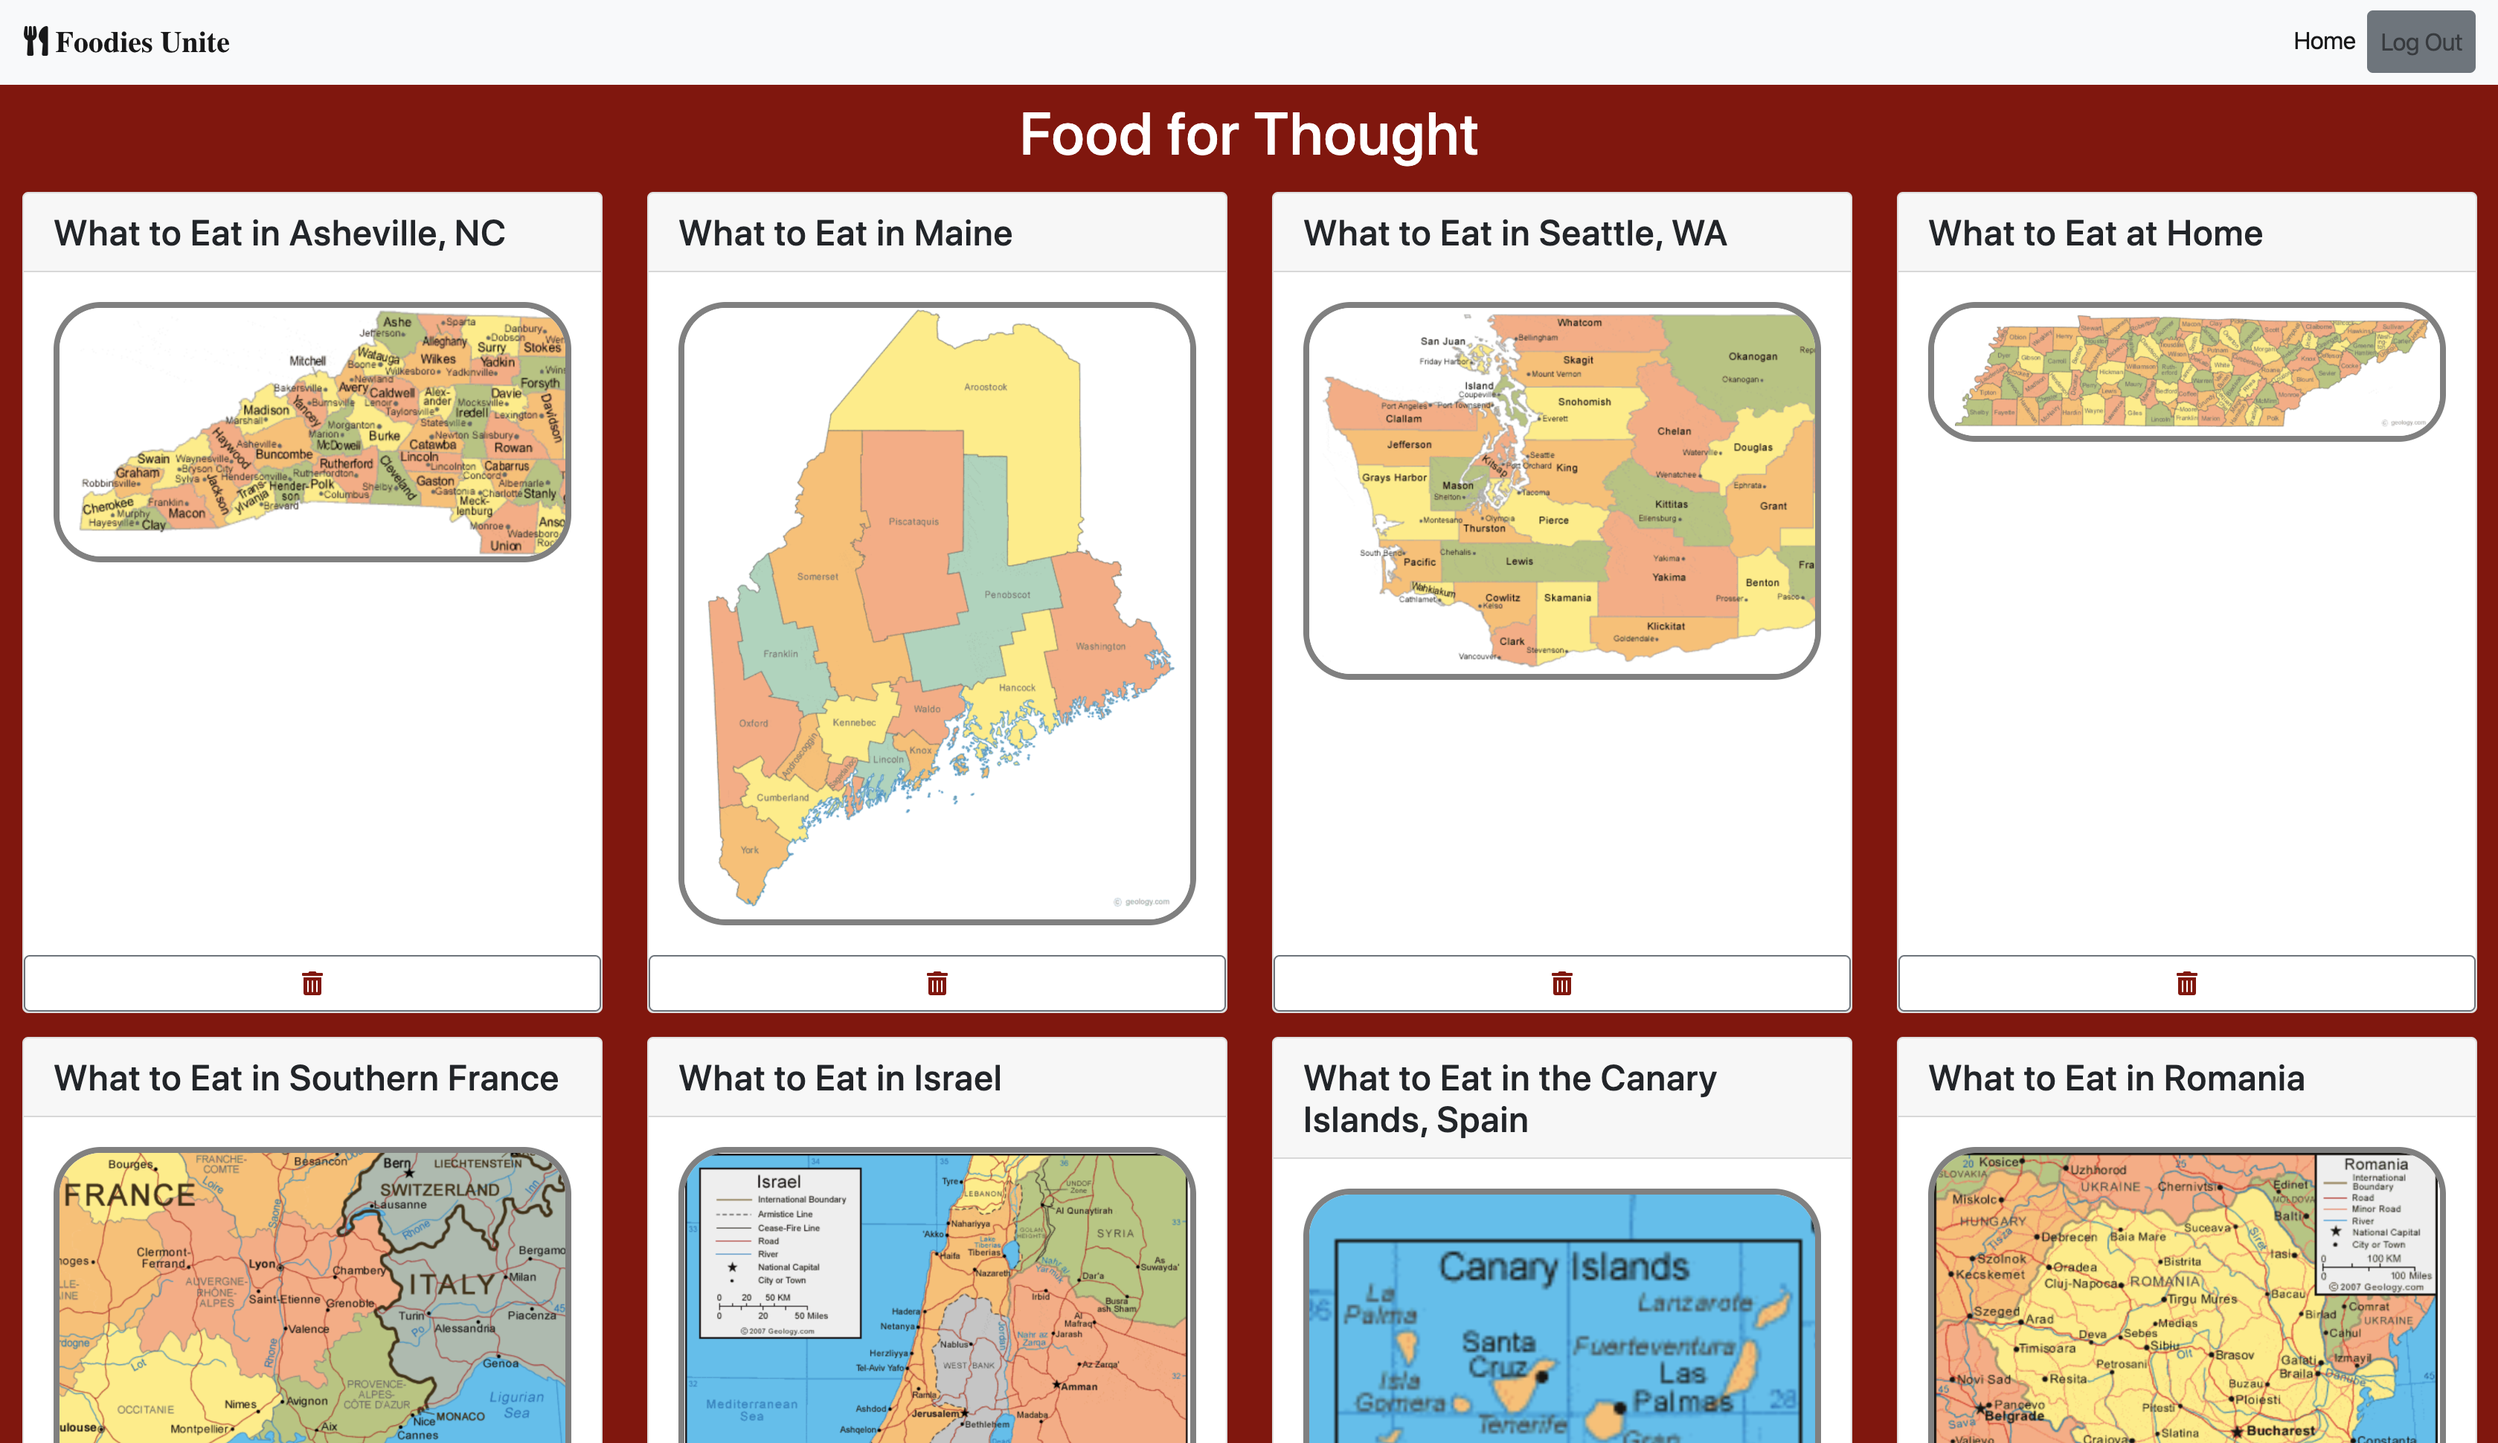
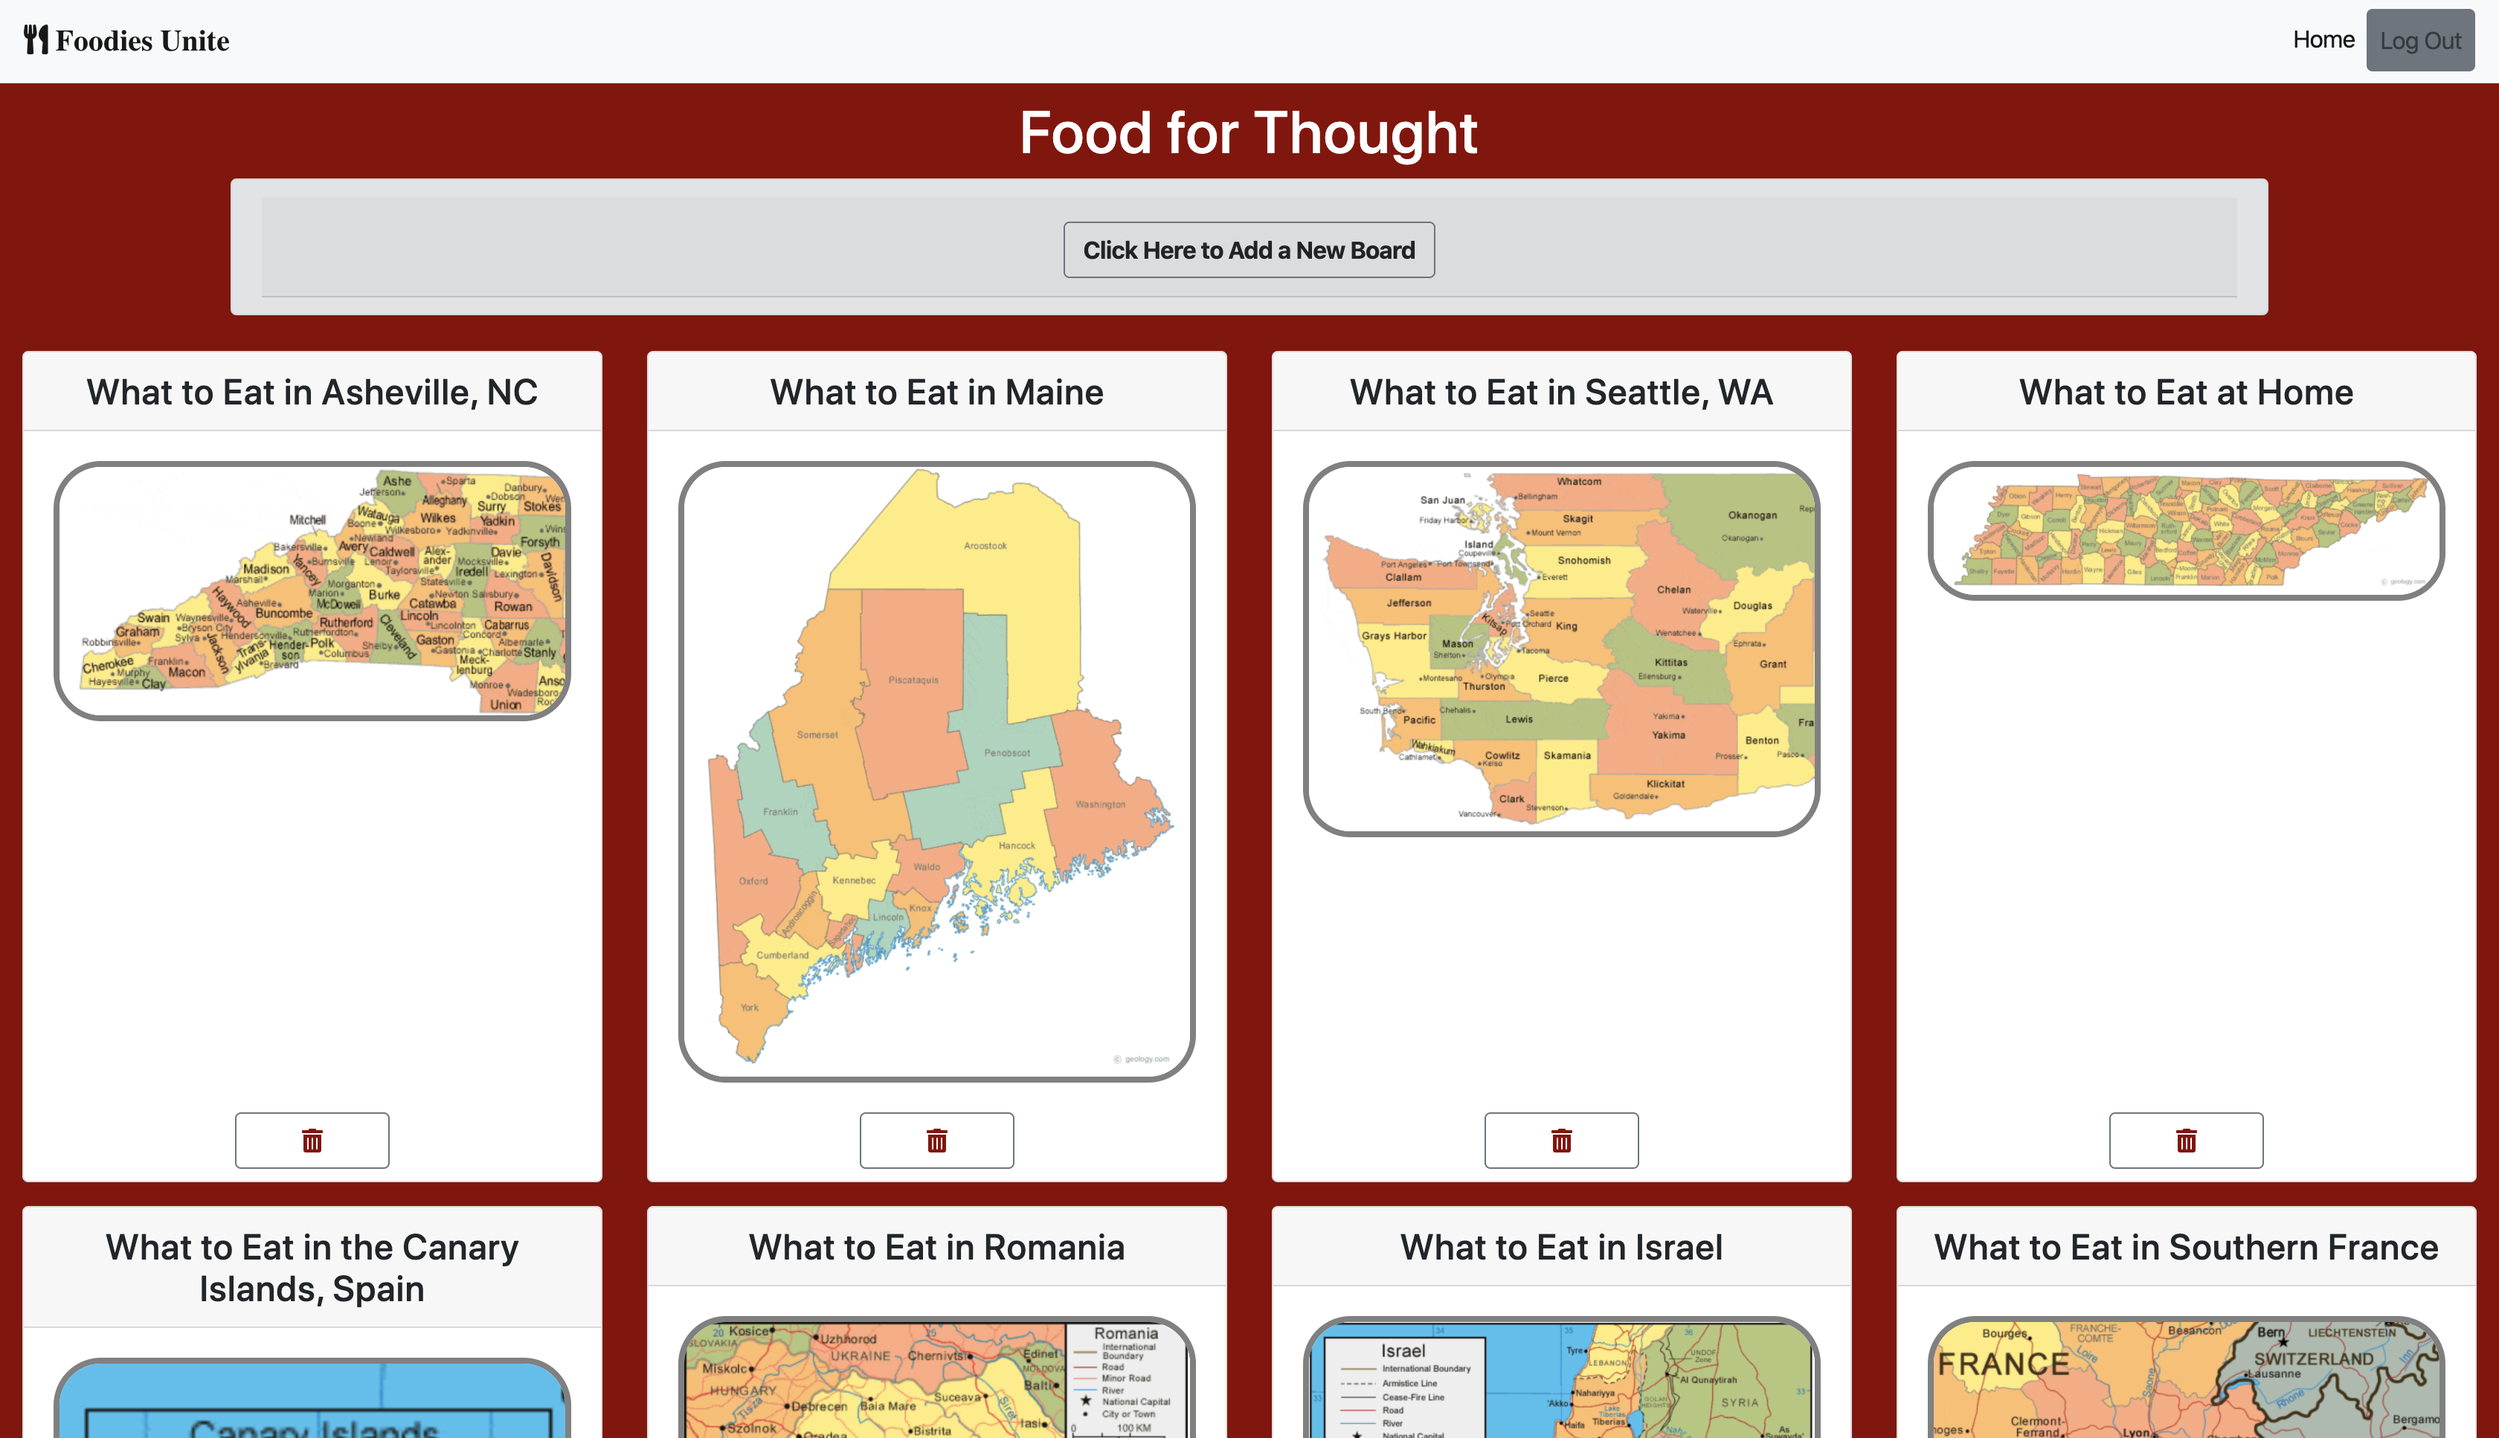
updated readme - still wip on updating a pin

diff --git a/README.md b/README.md
@@ -1,17 +1,29 @@
-# A Foodie's Connection
+# Foodies Unite
 
 ## Description
 This project is an exploration into using a Firebase database for user authentication and data management. It is a site similar to a much simplified vesion of Pinterest, and it includes meal recommendations for various places around the US and the world. Instructions can be found [here](https://github.com/nss-nightclass-projects/exercise-vault/blob/master/FIREBASE_pinterest.md).
 
+
+## Background
+This project has taught me so much - probably more than any of the projects I have embarked on so far at NSS. From making Promises and learning how to explain the story of such Axios calls to really grasping the relationship between the code in different component and data folders, to using Firebase, learning how to debug with a whole new level of complexity and attention to detail, and so much more - it has been so exciting to delve in at the beginning of each phase of this project and slowly emerge with new knowledge, tips, and tricks each time.
+
+One of the topics I love to follow on social media is food-related news and recipes. Depending on how you define a foodie, I might or might not fall into that category. No, I may have not tried the latest novel restaurants in town. But I do love my CSA box and trying out new recipes from all over the world. Food tours have become a staple when I visit new destinations. And I'd be lying if I didn't admit that I love my book club equally for the books we read and the book-themed dinners we plan for our get-togethers! Hence, my decision to make memorable dining experiences the theme for this project.
+
 ## Screenshots
-##### Home Login Page
+##### Login Page
 ![Login Page](./images/login.png)
 
 ##### Boards Page
 ![Home Page](./images/home.png)
 
-###### Single Board View Page (with Pins)
+###### Adding a New Board
+![Add Board](./images/add_board.png)
+
+###### Single Board Page (with Pins)
 ![Single View](./images/single_view_seattle.png)
+
+###### Adding a New Pin
+![Add Pin](./images/add_pin.png)
 
 
 ## Features
@@ -19,8 +31,14 @@ This project is an exploration into using a Firebase database for user authentic
 1. Users can have view multiple boards. 
 1. Users can view only their boards; they cannot view other users' boards.
 1. Users can access an individual view for each board, which displays all the pins associated with that board. 
-1. Users can delete boards, which also deletes all the pins associated with the corrsponding board. 
+1. Users can add new boards.
+1. Users can add new pins.
+1. Users can change the board on a pin. 
+1. Users can delete boards, which also deletes all the pins associated with the corresponding board. 
 1. Users can delete individual pins. 
+
+## Technologies & Tools
+Axios, Bootstrap, CSS, ES6 Modules, Firebase (for authentication and data management), Github (for version control), Google login authentication, HTML, JavaScript (vanilla), JQuery, moment.js, SASS, Webpack
 
 ## How to Run
 1. Clone down this repo.
@@ -31,4 +49,3 @@ This project is an exploration into using a Firebase database for user authentic
 ## Firebase Deployment
 This project has been deployed with Firebase. 
 You can access it [here](https://pinterest-4b62d.web.app/). 
-Create a Firebase account and run the script. 
